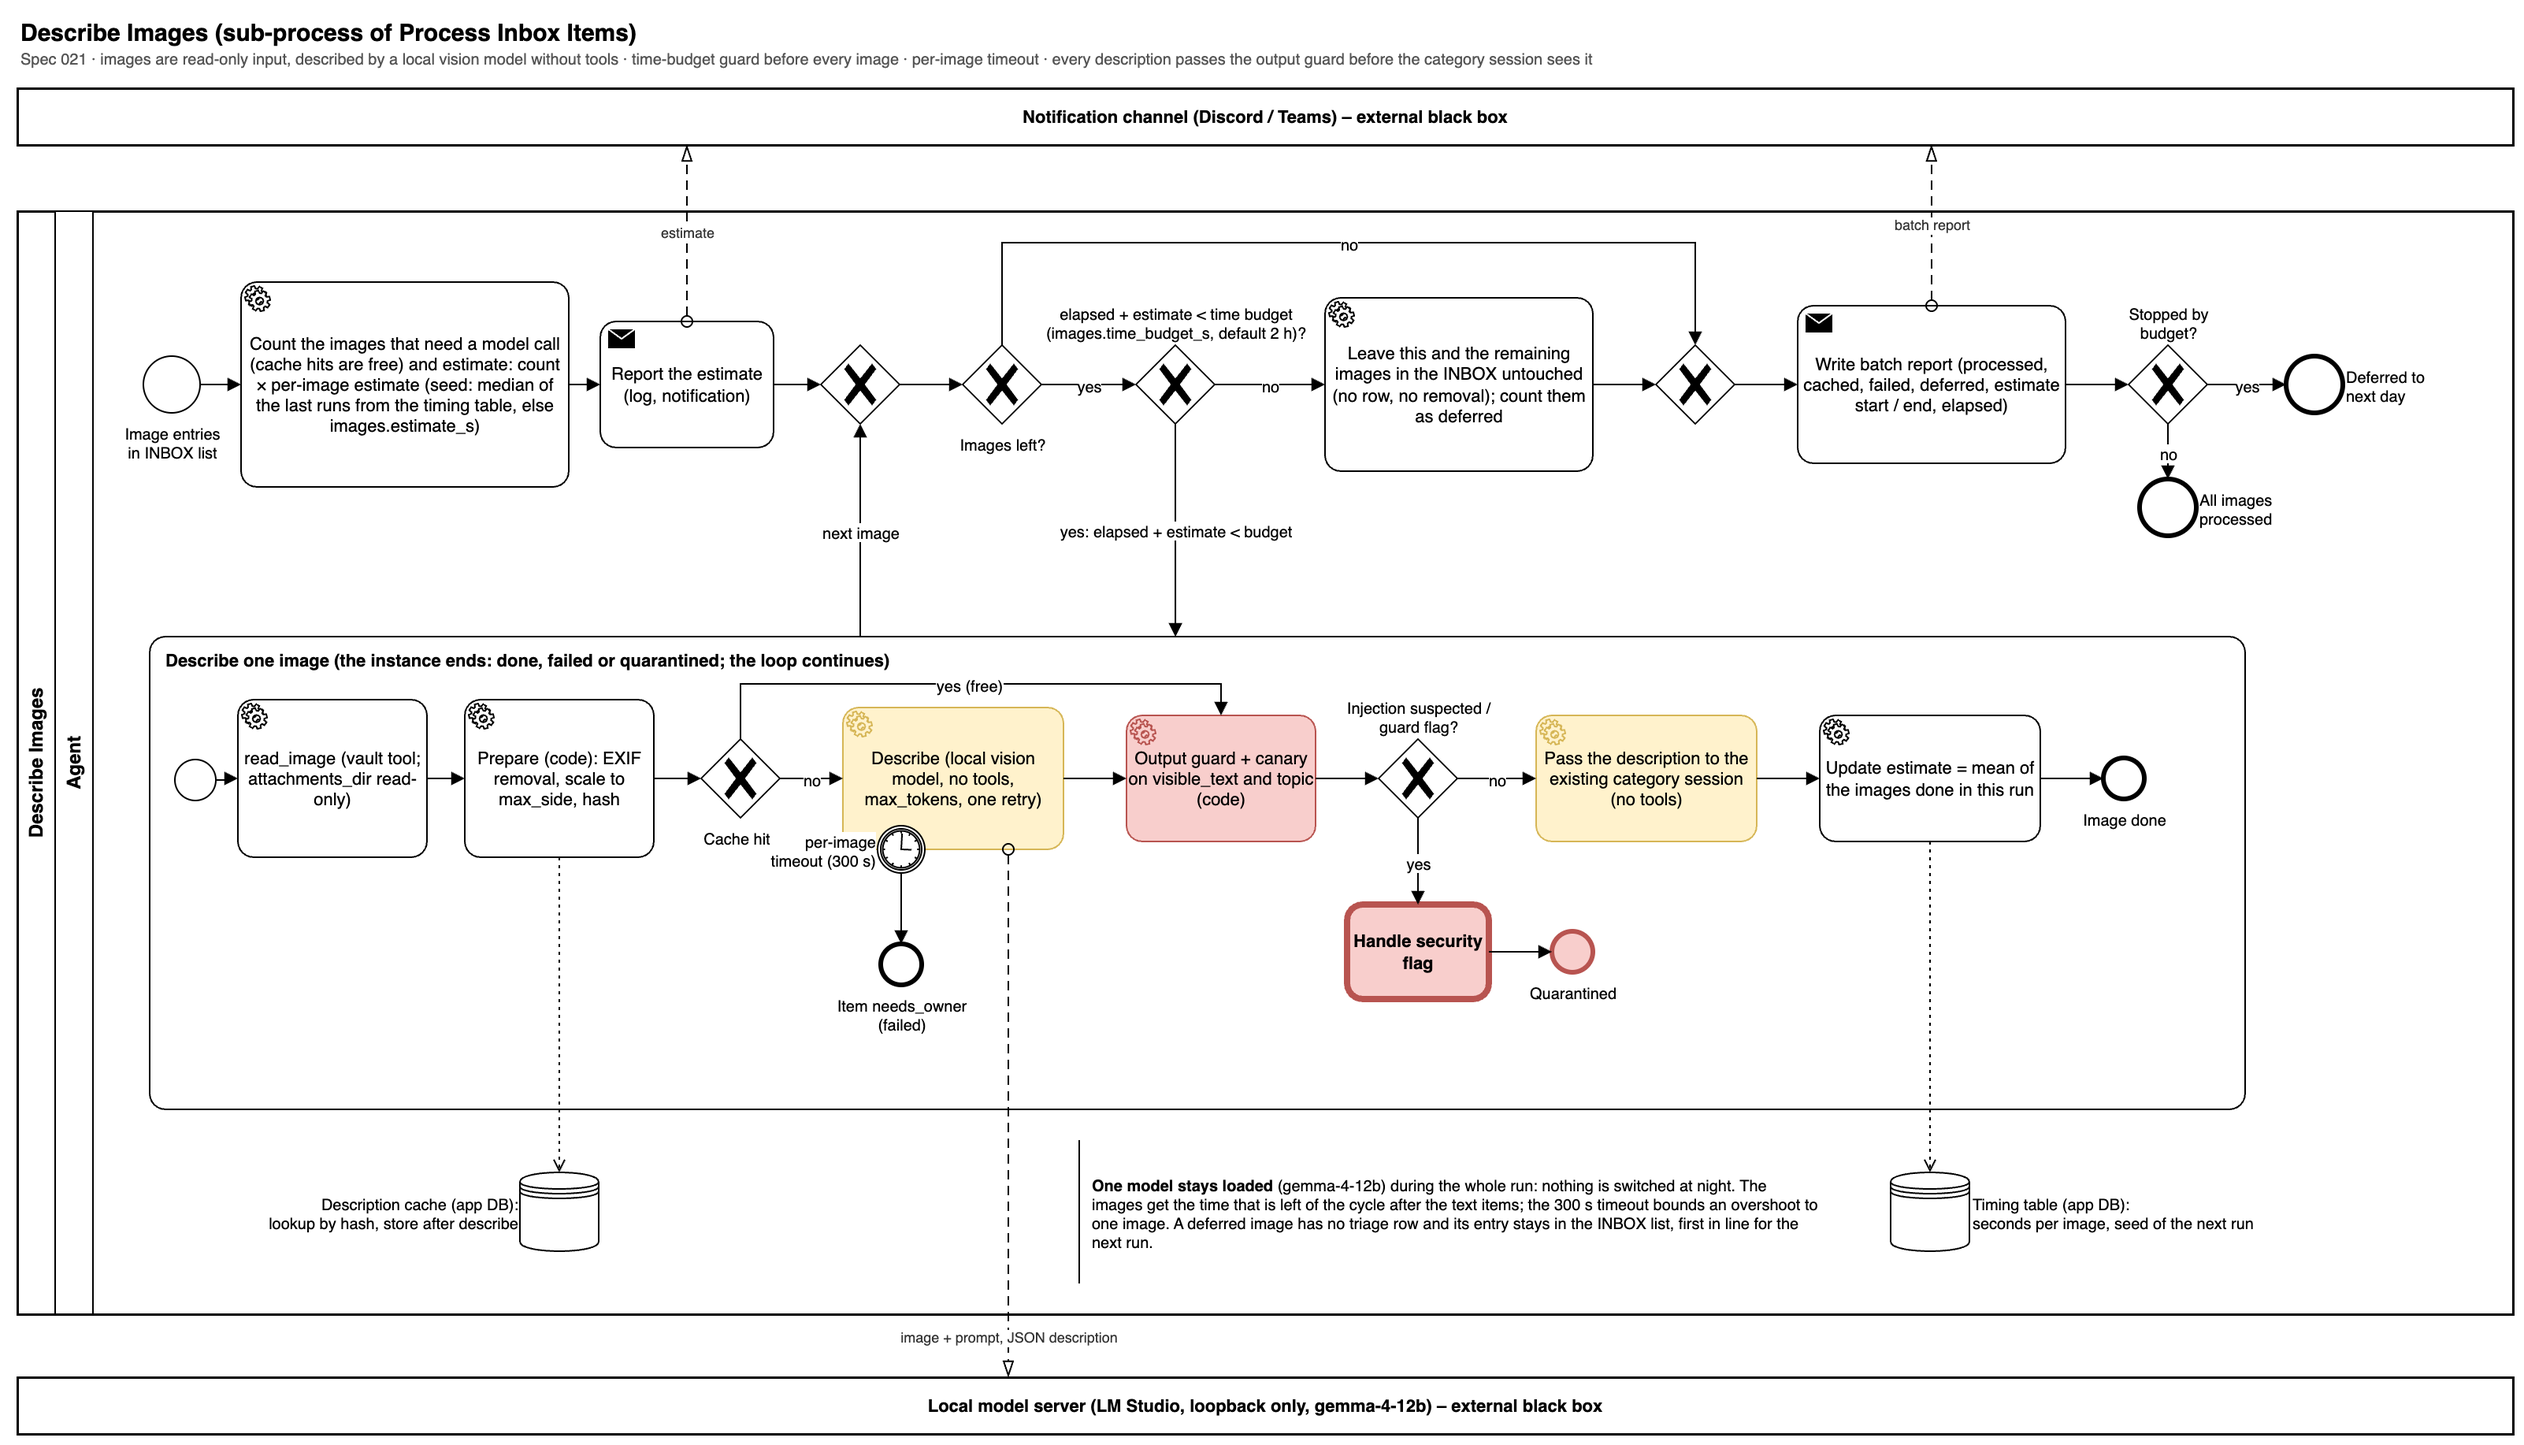
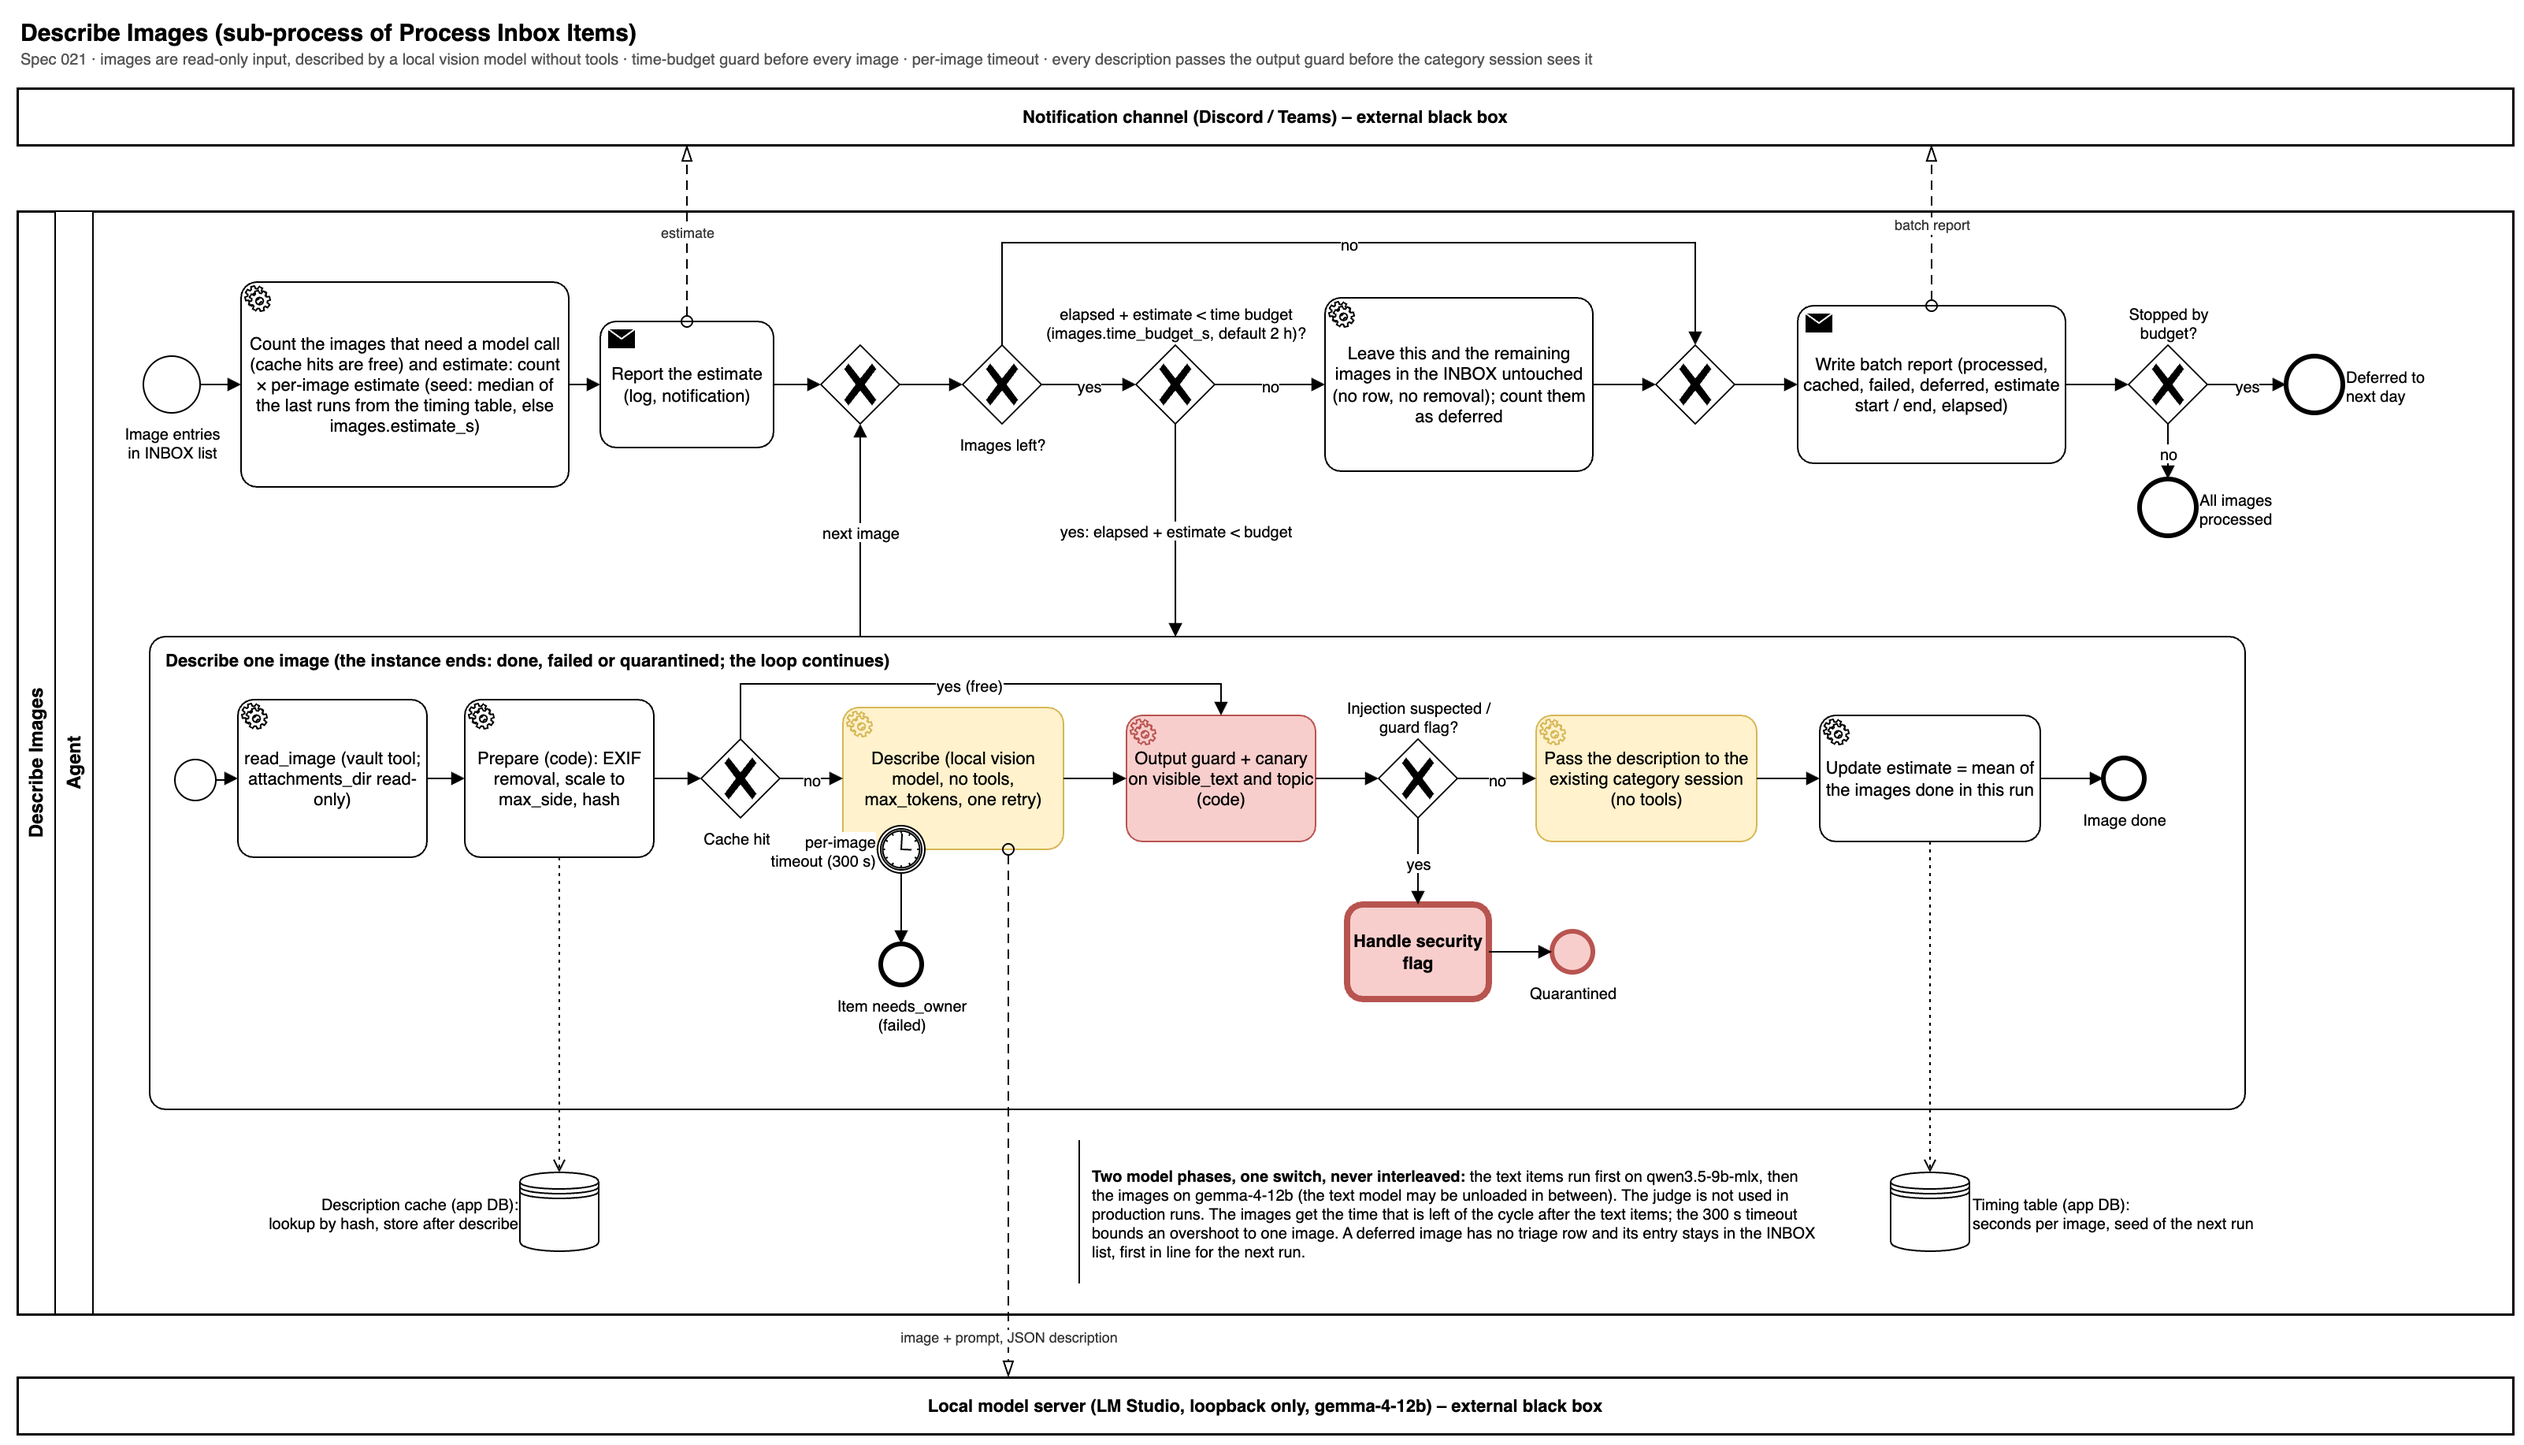
docs(bpmn): describe images note: two model phases (spec 021)

Changed region(s): [[0.437, 0.8081, 0.7179, 0.8702]]

diff --git a/docs/process/describe-images.md b/docs/process/describe-images.md
@@ -7,7 +7,7 @@ sidebar_position: 13
 
 Sub-process of [Process Inbox Items](process-inbox-items.md) (spec 021), called after the text items have been categorized. An image entry of the INBOX list is read by the vault server (`read_image`, `attachments_dir` is read-only), prepared by code (EXIF removal, scaling, hash), looked up in the description cache, and otherwise described by a local vision model in a session without tools. The description passes the output guard and the canary check before the existing category session sees it; a suspected injection goes to Handle Security Flag and only that image is quarantined.
 
-The batch is bounded by a time budget, not by a count. At the start the guard counts the images that need a model call and reports `count × per-image estimate` (seed: median of the last runs from the timing table, else `images.estimate_s`). Before every image it stops when `elapsed + estimate` reaches `images.time_budget_s` (default 2 hours): that image and the rest stay in the INBOX list untouched, with no row and no removal, and are first in line the next day. After every image the estimate becomes the mean of the images done in this run. A boundary timer (`images.per_image_timeout_s`, 300 s) sends one stuck image to `needs_owner` so it cannot spend the budget. One model (`gemma-4-12b`) stays loaded for the whole run, and the images get the time that is left of the cycle after the text items. The batch report is written in both exits (budget reached, or no images left).
+The batch is bounded by a time budget, not by a count. At the start the guard counts the images that need a model call and reports `count × per-image estimate` (seed: median of the last runs from the timing table, else `images.estimate_s`). Before every image it stops when `elapsed + estimate` reaches `images.time_budget_s` (default 2 hours): that image and the rest stay in the INBOX list untouched, with no row and no removal, and are first in line the next day. After every image the estimate becomes the mean of the images done in this run. A boundary timer (`images.per_image_timeout_s`, 300 s) sends one stuck image to `needs_owner` so it cannot spend the budget. A run has two model phases with one switch between them, never interleaved: the text items run first on `qwen3.5-9b-mlx`, then the images on `gemma-4-12b` (the text model may be unloaded in between); the judge is not used in production runs. The images get the time that is left of the cycle after the text items. The batch report is written in both exits (budget reached, or no images left).
 
 ![Describe Images](../img/bpmn/describe-images.png)
 
